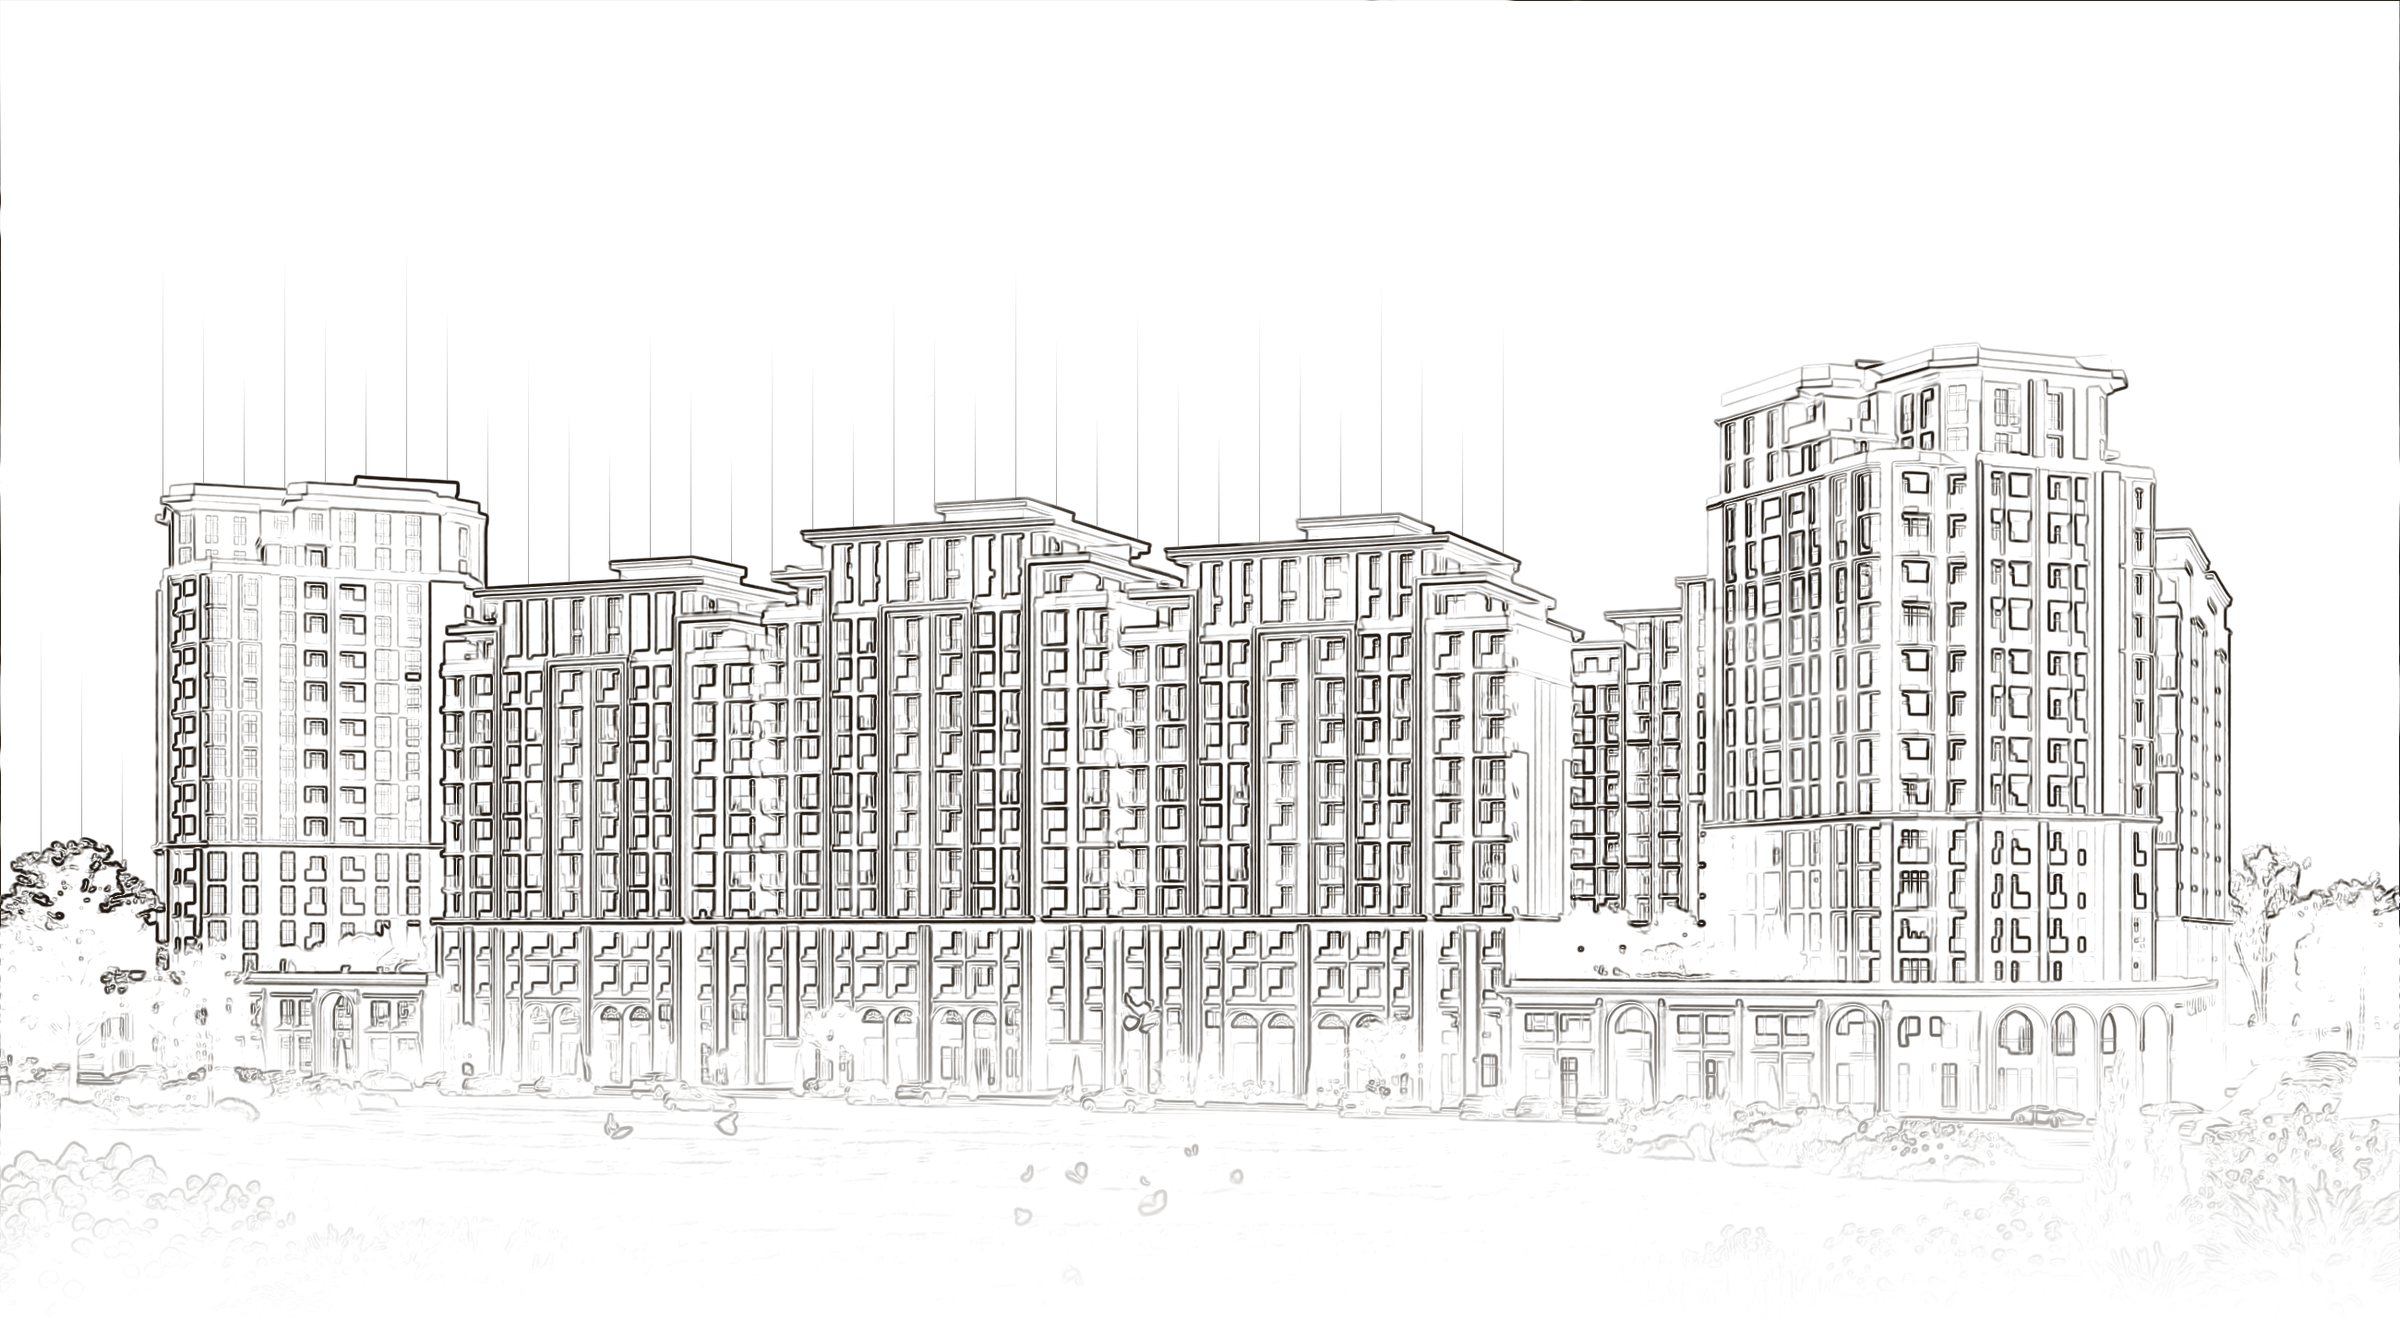
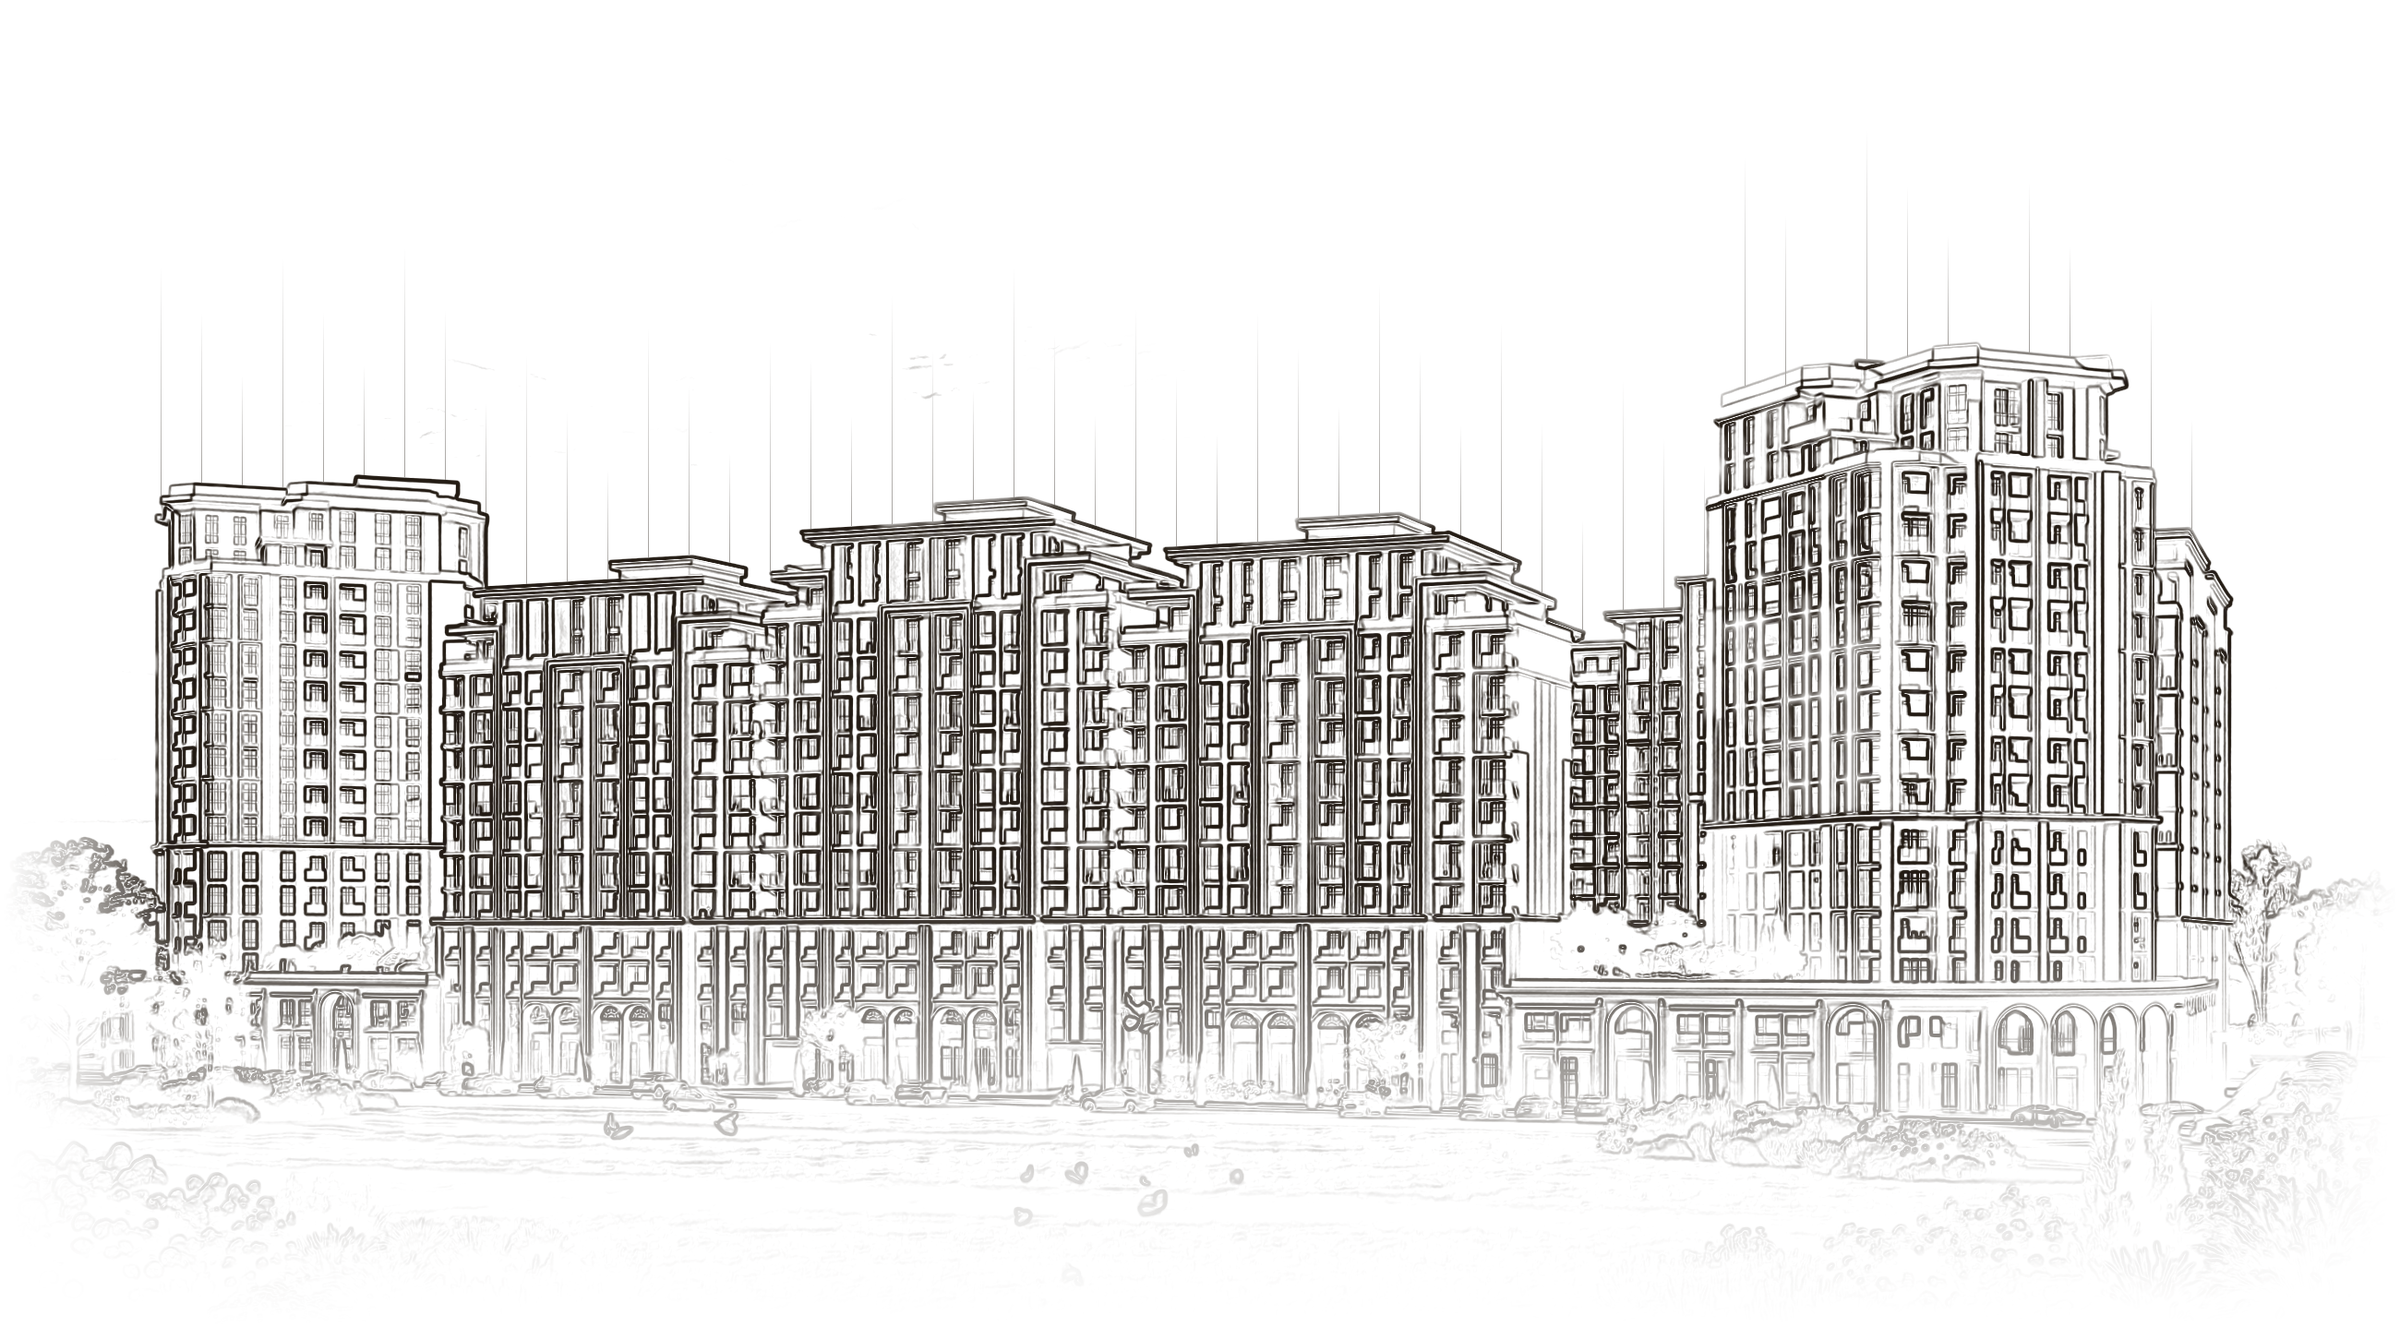
Clean the drawing's edges and let the arch float over the render
Two artefacts the client spotted at the edges: the Sobel pass rolled the image
around, so the wrap seam drew a frame around the whole sheet, and a few of the
construction lines had latched onto shrubs instead of rooflines and hung in
empty sky. Studs now need a body of graphics beneath them and a roofline that
stays flat across neighbouring samples, and the drawing dissolves at the sides
instead of stopping at a ruled edge.

The arched frame moves in front of the render and drifts: it rises into place
once, then breathes on a six-second sine. The drift pauses whenever the section
leaves the viewport.

diff --git a/assets/js/motion.js b/assets/js/motion.js
@@ -357,6 +357,28 @@
 
   /* пересчёт после подгрузки картинок: иначе длина ленты берётся до их появления */
 
+
+  /* ── арка над рендером ──
+     Кадр в арке выходит вперёд и потом едва заметно качается: движение
+     медленное и без отскока, иначе получится баннер, а не квартал.
+     Пока раздел вне экрана, качание стоит — незачем крутить кадры впустую. */
+  var arch = document.querySelector('.art--arch');
+  if (arch) {
+    gsap.fromTo(arch, { opacity: 0, yPercent: 8, scale: 0.965 }, {
+      opacity: 1, yPercent: 0, scale: 1, duration: 1.5, ease: EASE,
+      scrollTrigger: { trigger: arch, start: 'top 88%', once: true },
+      onComplete: function () {
+        var swim = gsap.to(arch, {
+          yPercent: -3.2, duration: 6.5, ease: 'sine.inOut', yoyo: true, repeat: -1,
+        });
+        ScrollTrigger.create({
+          trigger: arch, start: 'top bottom', end: 'bottom top',
+          onToggle: function (self) { if (self.isActive) { swim.play(); } else { swim.pause(); } },
+        });
+      },
+    });
+  }
+
   /* ── навигация по разделам: подсвечиваем тот, что сейчас на экране ── */
   var rail = document.querySelector('[data-rail]');
   if (rail) {

diff --git a/styles.css b/styles.css
@@ -1570,17 +1570,18 @@ body.has-callbar .opening__foot{opacity:0;pointer-events:none}
 .art{margin:0;overflow:hidden;background:var(--milk)}
 .art img{width:100%;height:100%;object-fit:cover}
 .art--arch{
-  position:absolute;left:0;bottom:0;z-index:1;width:56%;height:76%;
+  position:absolute;left:0;bottom:0;z-index:2;width:56%;height:76%;
   border-radius:50% 50% 0 0 / 42% 42% 0 0;
+  will-change:transform;
 }
-.art--shot{position:absolute;right:0;top:0;z-index:2;width:72%;height:84%}
+.art--shot{position:absolute;right:0;top:0;z-index:1;width:72%;height:84%}
 
 @media (max-width:899px){
   .about__art{min-height:0;display:grid;grid-template-columns:minmax(0,.9fr) minmax(0,1.1fr);
     align-items:end;gap:0}
   .art{position:static;width:auto;height:auto;aspect-ratio:3/4}
-  .art--arch{margin-right:-14%;z-index:1}
-  .art--shot{margin-top:12%;z-index:2;aspect-ratio:4/5}
+  .art--arch{margin-right:-14%;z-index:2}
+  .art--shot{margin-top:12%;z-index:1;aspect-ratio:4/5}
 }
 
 .about__side{display:grid;gap:clamp(14px,2vh,20px);align-content:start}

diff --git a/tools/make-wireframe.py b/tools/make-wireframe.py
@@ -26,10 +26,12 @@ INK = (33, 26, 18)     # цвет линии: фирменный чёрный с
 
 LO, HI = 0.06, 0.34    # порог силы ребра: ниже — фон, выше — линия в полную силу
 GAMMA = 0.85           # мягкость набора плотности
-LEAF_DROP = 0.94       # насколько глушим листву
+LEAF_DROP = 0.97       # насколько глушим листву
 SKY_DROP = 0.95        # насколько глушим небо
-GROUND = 0.30          # доля кадра снизу, которая уходит в ничто: газон и кусты
+GROUND = 0.34          # доля кадра снизу, которая уходит в ничто: газон и кусты
                        # в чертеже читаются как грязь
+SIDES = 0.07           # и столько же тает по бокам — чертёж не должен
+                       # обрываться по линейке
 STUD_STEP = 44         # шаг выносных вертикалей над корпусами
 STUD_LEN = (120, 250)  # их длина
 
@@ -45,18 +47,42 @@ def sobel(a):
                 if w:
                     out += w * np.roll(np.roll(src, dy, 0), dx, 1)
         return out
-    return np.hypot(conv(a, kx), conv(a, ky))
+    mag = np.hypot(conv(a, kx), conv(a, ky))
+    # np.roll заворачивает картинку, поэтому на стыке краёв возникает ложное
+    # ребро — та самая рамка по периметру. Срезаем её.
+    mag[:2, :] = 0
+    mag[-2:, :] = 0
+    mag[:, :2] = 0
+    mag[:, -2:] = 0
+    return mag
 
 
 def add_studs(alpha):
+    """Тонкие вертикали над кровлями.
+
+    Ставим их только там, где под линией действительно стоит корпус: у куста
+    или у края кадра тоже находится «верхняя точка», и вертикаль над ней висит
+    в пустом небе. Признаков два — под точкой должно быть много графики,
+    а сама линия кровли должна быть ровной на несколько шагов вокруг.
+    """
     h, w = alpha.shape
-    # линия кровли: первая сверху строка, где ребро уже уверенное
     strong = alpha > 0.30
     roof = np.where(strong.any(0), strong.argmax(0), -1)
     lens = (STUD_LEN[0], STUD_LEN[1], (STUD_LEN[0] + STUD_LEN[1]) // 2)
-    for i, x in enumerate(range(0, w, STUD_STEP)):
+    edge = int(w * 0.05)                       # у самых краёв не ставим вовсе
+
+    for i, x in enumerate(range(edge, w - edge, STUD_STEP)):
         y = roof[x]
-        if y < 30 or y > h * 0.75:
+        if y < 30 or y > h * 0.62:
+            continue
+        # под кровлей должен быть корпус, а не крона: считаем плотность графики
+        body = alpha[y:min(h, y + 260), x]
+        if body.mean() < 0.10:
+            continue
+        # и кровля должна быть ровной: у куста соседние точки скачут
+        near = roof[max(0, x - 60):min(w, x + 60)]
+        near = near[near >= 0]
+        if near.size < 40 or abs(float(np.median(near)) - y) > 26:
             continue
         top = max(0, y - lens[i % 3])
         col = np.linspace(0, 0.42, y - top, dtype=np.float32)   # кверху тает
@@ -102,6 +128,14 @@ def main():
     start = int(hgt * (1 - GROUND))
     fade[start:] = np.linspace(1, 0, hgt - start) ** 1.6
     alpha *= fade[:, None]
+
+    wid = alpha.shape[1]
+    side = np.ones(wid, dtype=np.float32)
+    edge = int(wid * SIDES)
+    ramp = np.linspace(0, 1, edge, dtype=np.float32) ** 1.4
+    side[:edge] = ramp
+    side[-edge:] = ramp[::-1]
+    alpha *= side[None, :]
 
     # выносные вертикали над кровлями — то, что делает картинку чертежом,
     # а не обведённой фотографией
